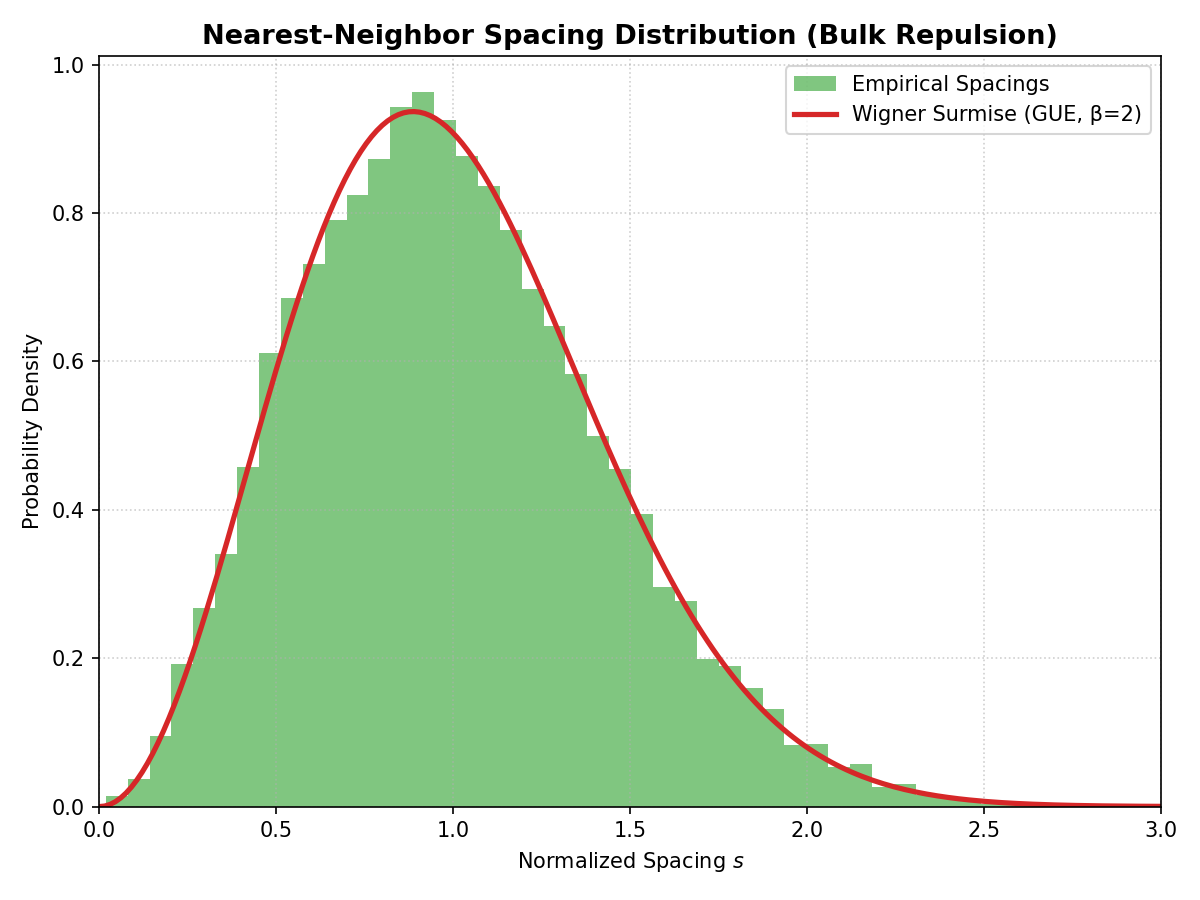
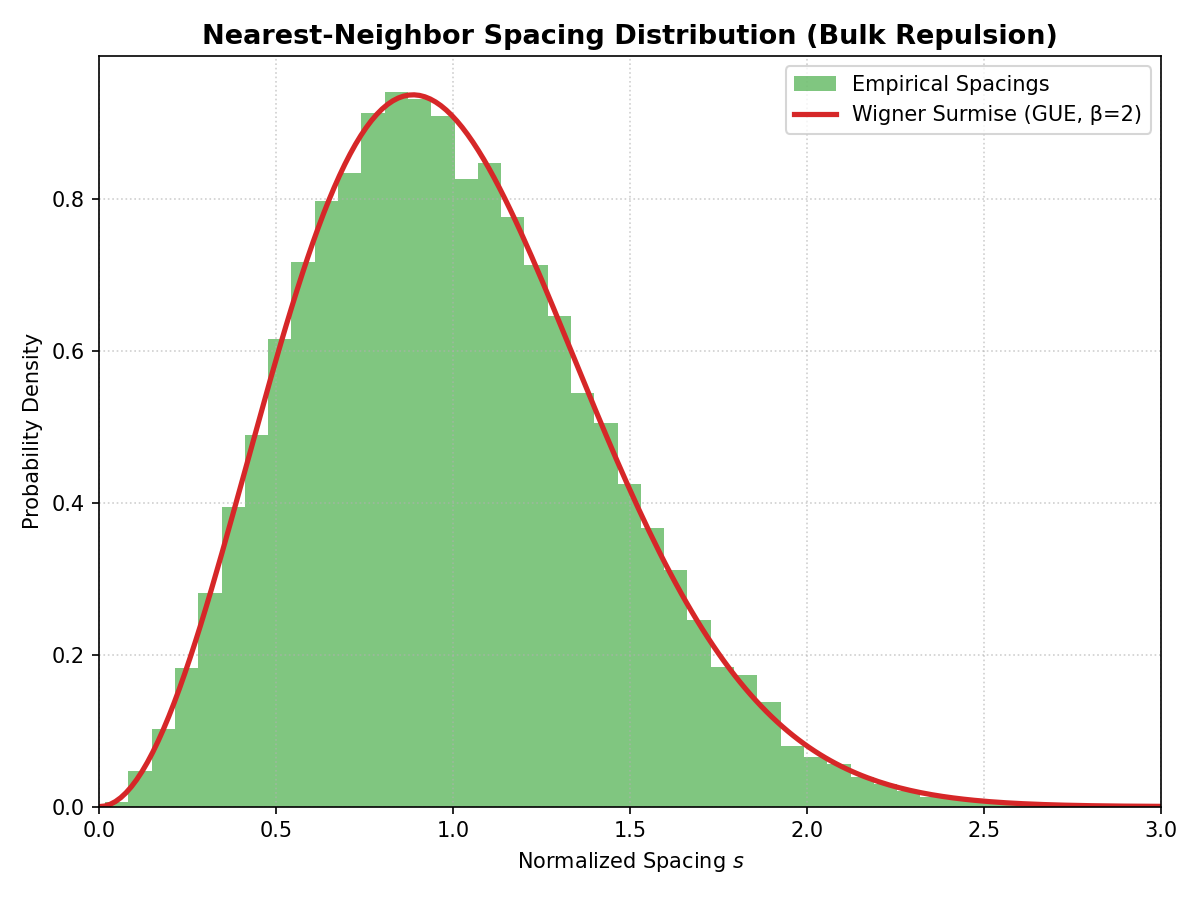
Split multi-panel visual plots and balance layout in README

diff --git a/visuals/visualize_dpp.py b/visuals/visualize_dpp.py
@@ -88,11 +88,13 @@ class PrecomputedDiscreteKernel:
 
 def animate_asymptotic_kernel_scaling():
     from PIL import Image
-    print("Generating Asymptotic Kernel Scaling Limits animation...")
+    print("Generating Asymptotic Kernel Scaling Limits animations...")
     degrees = [10, 20, 30, 45, 60, 80, 100, 130, 160, 200]
-    frame_images = []
+    bulk_images = []
+    edge_images = []
     
-    os.makedirs("visuals/assets/temp_kernel_frames", exist_ok=True)
+    os.makedirs("visuals/assets/temp_bulk_frames", exist_ok=True)
+    os.makedirs("visuals/assets/temp_edge_frames", exist_ok=True)
     
     # Bulk points and theoretical limit
     y_fixed = 0.0
@@ -114,9 +116,8 @@ def animate_asymptotic_kernel_scaling():
         airy_limit.append(val)
         
     for idx, d in enumerate(degrees):
-        fig, (ax1, ax2) = plt.subplots(1, 2, figsize=(14, 5))
-        
-        # 1. Bulk
+        # 1. Bulk Frame
+        fig1, ax1 = plt.subplots(figsize=(6.5, 5.2))
         rho_0 = np.sqrt(2.0 * d) / np.pi
         pts = np.concatenate([x_vals / rho_0, [y_fixed / rho_0]])
         K_mat = hermite_function_kernel_matrix(d, pts)
@@ -124,13 +125,19 @@ def animate_asymptotic_kernel_scaling():
         
         ax1.plot(x_vals, k_bulk, color='#1f77b4', lw=2.0, label=f"Finite Kernel (d={d})")
         ax1.plot(x_vals, sine_limit, '--', color='black', lw=2.0, label="Sine Kernel Limit")
-        ax1.set_title("Bulk Universality (Sine Kernel Limit)", fontsize=11, fontweight='bold')
+        ax1.set_title(f"Bulk Universality (Sine Kernel Limit, d={d})", fontsize=11, fontweight='bold')
         ax1.set_xlabel(r"Rescaled Distance $\pi(x - y)$")
         ax1.set_ylabel("Kernel Value")
         ax1.grid(True, linestyle=":", alpha=0.6)
         ax1.legend(loc="upper right")
+        plt.tight_layout()
+        frame_path_bulk = f"visuals/assets/temp_bulk_frames/frame_{idx:03d}.png"
+        plt.savefig(frame_path_bulk, dpi=120)
+        plt.close()
+        bulk_images.append(Image.open(frame_path_bulk))
         
-        # 2. Edge
+        # 2. Edge Frame
+        fig2, ax2 = plt.subplots(figsize=(6.5, 5.2))
         edge = np.sqrt(2.0 * d)
         scale = 1.0 / (np.sqrt(2.0) * (d ** (1.0/6.0)))
         pts_edge = np.concatenate([edge + x_edge_vals * scale, [edge + y_edge_fixed * scale]])
@@ -139,46 +146,55 @@ def animate_asymptotic_kernel_scaling():
         
         ax2.plot(x_edge_vals, k_edge, color='#2ca02c', lw=2.0, label=f"Finite Kernel (d={d})")
         ax2.plot(x_edge_vals, airy_limit, '--', color='black', lw=2.0, label="Airy Kernel Limit")
-        ax2.set_title("Edge Universality (Airy Kernel Limit)", fontsize=11, fontweight='bold')
+        ax2.set_title(f"Edge Universality (Airy Kernel Limit, d={d})", fontsize=11, fontweight='bold')
         ax2.set_xlabel(r"Rescaled Edge Distance")
         ax2.set_ylabel("Kernel Value")
         ax2.grid(True, linestyle=":", alpha=0.6)
         ax2.legend(loc="upper right")
-        
-        plt.suptitle(f"Kernel Scaling Limits Convergence (d={d})", fontsize=13, fontweight='bold')
         plt.tight_layout()
-        
-        frame_path = f"visuals/assets/temp_kernel_frames/frame_{idx:03d}.png"
-        plt.savefig(frame_path, dpi=120)
+        frame_path_edge = f"visuals/assets/temp_edge_frames/frame_{idx:03d}.png"
+        plt.savefig(frame_path_edge, dpi=120)
         plt.close()
+        edge_images.append(Image.open(frame_path_edge))
         
-        frame_images.append(Image.open(frame_path))
-        
-    gif_path = "visuals/assets/asymptotic_kernel_scaling.gif"
-    if frame_images:
-        frame_images[0].save(
-            gif_path,
+    gif_path_bulk = "visuals/assets/asymptotic_kernel_bulk.gif"
+    gif_path_edge = "visuals/assets/asymptotic_kernel_edge.gif"
+    if bulk_images:
+        bulk_images[0].save(
+            gif_path_bulk,
             save_all=True,
-            append_images=frame_images[1:],
+            append_images=bulk_images[1:],
             duration=300,
             loop=0
         )
-    print(f"Saved kernel scaling animation to {gif_path}")
+    if edge_images:
+        edge_images[0].save(
+            gif_path_edge,
+            save_all=True,
+            append_images=edge_images[1:],
+            duration=300,
+            loop=0
+        )
+    print(f"Saved bulk kernel scaling animation to {gif_path_bulk}")
+    print(f"Saved edge kernel scaling animation to {gif_path_edge}")
     
-    for img in frame_images:
+    for img in bulk_images:
+        img.close()
+    for img in edge_images:
         img.close()
         
     # Cleanup
     for idx in range(len(degrees)):
         try:
-            os.remove(f"visuals/assets/temp_kernel_frames/frame_{idx:03d}.png")
+            os.remove(f"visuals/assets/temp_bulk_frames/frame_{idx:03d}.png")
+            os.remove(f"visuals/assets/temp_edge_frames/frame_{idx:03d}.png")
         except OSError:
             pass
     try:
-        os.rmdir("visuals/assets/temp_kernel_frames")
+        os.rmdir("visuals/assets/temp_bulk_frames")
+        os.rmdir("visuals/assets/temp_edge_frames")
     except OSError:
         pass
-    print("Saved animation to visuals/assets/asymptotic_kernel_scaling.gif")
 
 
 def gap_probability_continuous_vectorized(d: int, a: float, b: float, n_points: int = 35) -> float:

diff --git a/visuals/visualize_interlacing.py b/visuals/visualize_interlacing.py
@@ -15,7 +15,7 @@ os.makedirs("visuals/assets", exist_ok=True)
 
 
 def visualize_interlacing_preservation() -> None:
-    print("Generating Root Interlacing Preservation plot...")
+    print("Generating Root Interlacing Preservation plots...")
     d = 6
     roots_p = [1.0, 3.0, 5.0, 7.0, 9.0, 11.0]
     roots_q = [2.0, 4.0, 6.0, 8.0, 10.0, 12.0]
@@ -38,8 +38,8 @@ def visualize_interlacing_preservation() -> None:
     roots_p_mult = p_mult.evaluate_roots_float64()
     roots_q_mult = q_mult.evaluate_roots_float64()
 
-    fig, (ax1, ax2, ax3) = plt.subplots(1, 3, figsize=(18, 5))
-
+    # 1. Original Plot
+    fig1, ax1 = plt.subplots(figsize=(7, 4.5))
     ax1.scatter(
         roots_p,
         np.zeros_like(roots_p),
@@ -82,9 +82,14 @@ def visualize_interlacing_preservation() -> None:
     ax1.set_yticklabels(["p(x)", "q(x)"])
     ax1.set_title("Original Roots: p < q")
     ax1.set_xlabel("Root Coordinate")
-    ax1.legend()
+    ax1.legend(loc="upper right")
     ax1.grid(True, axis="x", alpha=0.3)
+    plt.tight_layout()
+    plt.savefig("visuals/assets/root_interlacing_original.png", dpi=150)
+    plt.close()
 
+    # 2. Additive Plot
+    fig2, ax2 = plt.subplots(figsize=(7, 4.5))
     ax2.scatter(
         roots_p_add,
         np.zeros_like(roots_p_add),
@@ -133,9 +138,14 @@ def visualize_interlacing_preservation() -> None:
     ax2.set_yticklabels([r"$p \boxplus_6 r$", r"$q \boxplus_6 r$"])
     ax2.set_title(r"Additive: $p \boxplus_6 r \prec q \boxplus_6 r$")
     ax2.set_xlabel("Root Coordinate")
-    ax2.legend()
+    ax2.legend(loc="upper right")
     ax2.grid(True, axis="x", alpha=0.3)
+    plt.tight_layout()
+    plt.savefig("visuals/assets/root_interlacing_additive.png", dpi=150)
+    plt.close()
 
+    # 3. Multiplicative Plot
+    fig3, ax3 = plt.subplots(figsize=(7, 4.5))
     ax3.scatter(
         roots_p_mult,
         np.zeros_like(roots_p_mult),
@@ -184,13 +194,12 @@ def visualize_interlacing_preservation() -> None:
     ax3.set_yticklabels([r"$p \boxtimes_6 r$", r"$q \boxtimes_6 r$"])
     ax3.set_title(r"Multiplicative: $p \boxtimes_6 r \prec q \boxtimes_6 r$")
     ax3.set_xlabel("Root Coordinate")
-    ax3.legend()
+    ax3.legend(loc="upper right")
     ax3.grid(True, axis="x", alpha=0.3)
-
     plt.tight_layout()
-    plt.savefig("visuals/assets/root_interlacing.png", dpi=150)
+    plt.savefig("visuals/assets/root_interlacing_multiplicative.png", dpi=150)
     plt.close()
-    print("Saved plot to visuals/assets/root_interlacing.png")
+    print("Saved interlacing plots successfully.")
 
 
 if __name__ == "__main__":

diff --git a/README.md b/README.md
@@ -35,13 +35,13 @@ Animates the convergence of root distributions of expectation polynomials toward
 
 Showcases GUE spectral universality and eigenvalue spacing statistics. The Christoffel-Darboux kernel scaling limit animation demonstrates convergence to the Sine kernel in the bulk and the Airy kernel at the edge. The Tracy-Widom plot compares the empirical max eigenvalue CDF from HKPV samples against the continuous Fredholm determinant gap probability. The level repulsion spacing distribution displays GUE bulk eigenvalue spacing statistics matching the analytical Wigner Surmise.
 
-| CD Kernel Scaling Limits (Sine & Airy Limits) | Tracy-Widom Edge Convergence ($d=100$) |
+| CD Bulk Scaling Limit (Sine Kernel) | CD Edge Scaling Limit (Airy Kernel) |
 | :---: | :---: |
-| ![Asymptotic Scaling Limits](visuals/assets/asymptotic_kernel_scaling.gif) | ![Tracy-Widom Convergence](visuals/assets/tracy_widom_convergence.png) |
+| ![Asymptotic Bulk Scaling](visuals/assets/asymptotic_kernel_bulk.gif) | ![Asymptotic Edge Scaling](visuals/assets/asymptotic_kernel_edge.gif) |
 
-| Nearest-Neighbor Level Repulsion (Bulk Spacings vs Wigner Surmise) |
-| :---: |
-| ![Level Repulsion Spacing](visuals/assets/level_repulsion.png) |
+| Tracy-Widom Edge Convergence ($d=100$) | Nearest-Neighbor Level Repulsion (Bulk Spacings vs Wigner Surmise) |
+| :---: | :---: |
+| ![Tracy-Widom Convergence](visuals/assets/tracy_widom_convergence.png) | ![Level Repulsion Spacing](visuals/assets/level_repulsion.png) |
 
 </details>
 
@@ -54,13 +54,13 @@ Illustrates exact algebraic properties, root interlacing constraints, and geomet
 - **Multivariate Pencil Topography**: Visualizes the log-determinant topography and exact eigenvalue boundaries of random symmetric matrix pencils.
 - **Unitary Eigenvalue Repulsion**: Visualizes roots evolving on the complex unit circle $\mathbb{T}$ under unitary Hermite polynomial flows.
 
-| Interlacing Preservation Under Convolutions | Hyperbolic Matrix Pencil Eigencones & Topography |
-| :---: | :---: |
-| ![Interlacing Preservation](visuals/assets/root_interlacing.png) | ![Hyperbolic Cones](visuals/assets/hyperbolic_cones.png) |
+| Original Roots ($p \prec q$) | Additive Convolution ($p \boxplus_6 r \prec q \boxplus_6 r$) | Multiplicative Convolution ($p \boxtimes_6 r \prec q \boxtimes_6 r$) |
+| :---: | :---: | :---: |
+| ![Original Roots](visuals/assets/root_interlacing_original.png) | ![Additive Interlacing](visuals/assets/root_interlacing_additive.png) | ![Multiplicative Interlacing](visuals/assets/root_interlacing_multiplicative.png) |
 
-| Unitary Hermite Eigenvalue Repulsion Trajectories on $\mathbb{T}$ |
-| :---: |
-| ![Unitary Trajectories](visuals/assets/unitary_trajectories.gif) |
+| Hyperbolic Matrix Pencil Eigencones & Topography | Unitary Hermite Eigenvalue Repulsion Trajectories |
+| :---: | :---: |
+| ![Hyperbolic Cones](visuals/assets/hyperbolic_cones.png) | ![Unitary Trajectories](visuals/assets/unitary_trajectories.gif) |
 
 </details>
 
